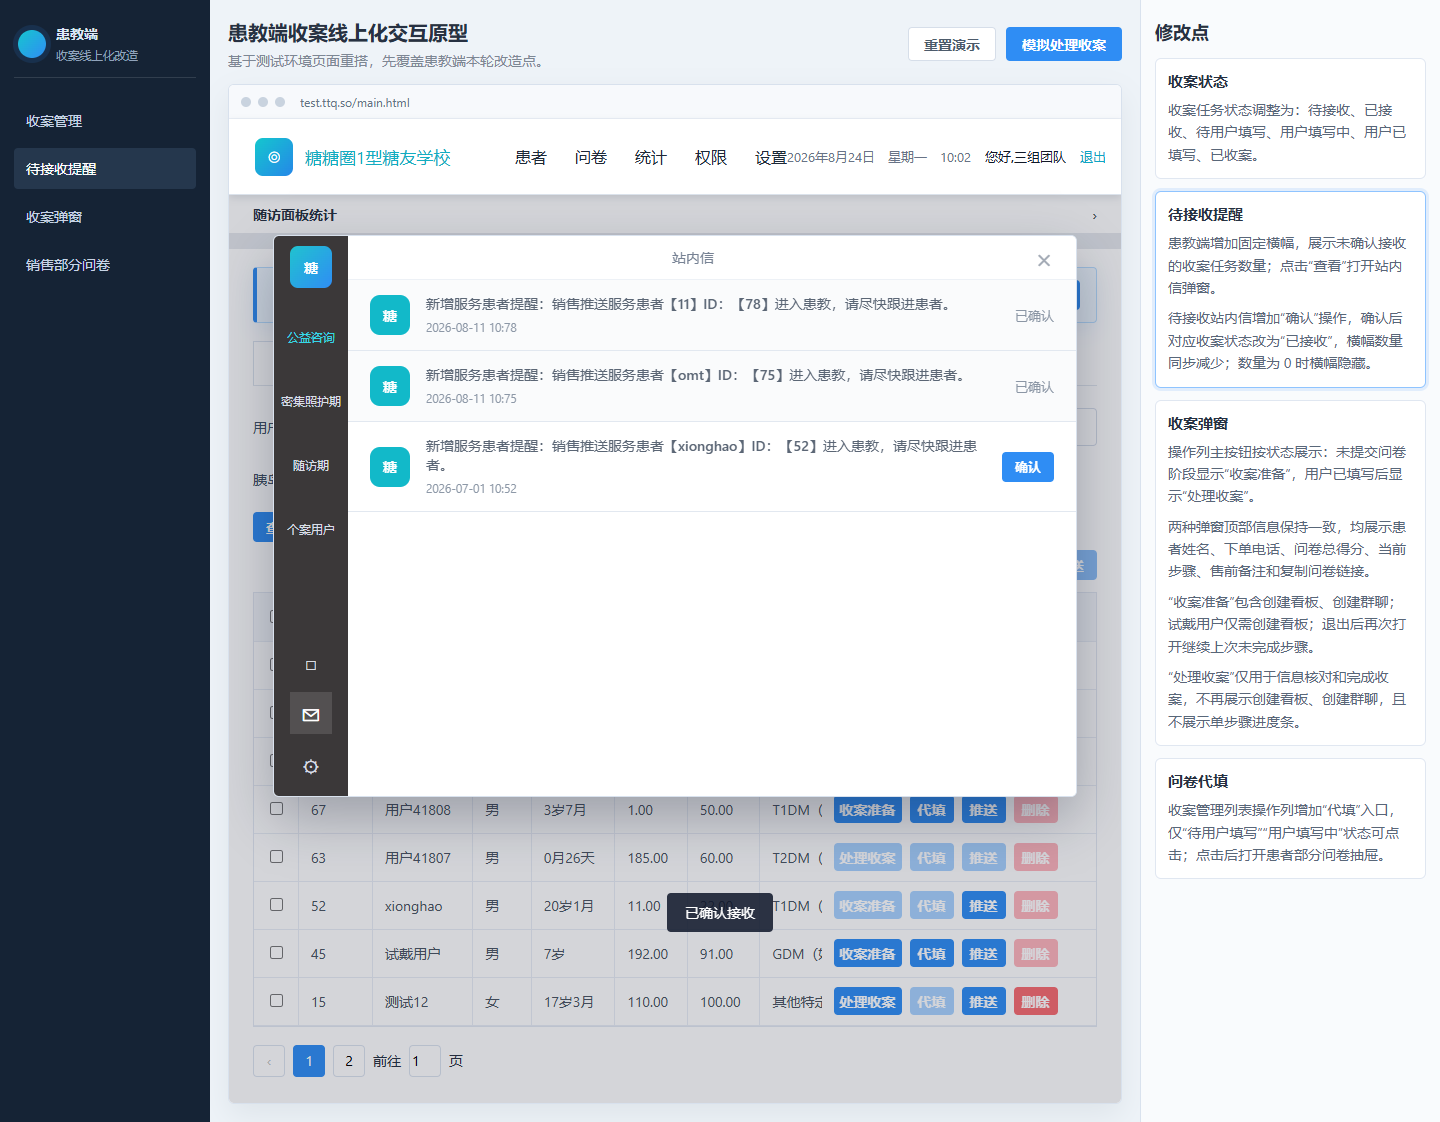
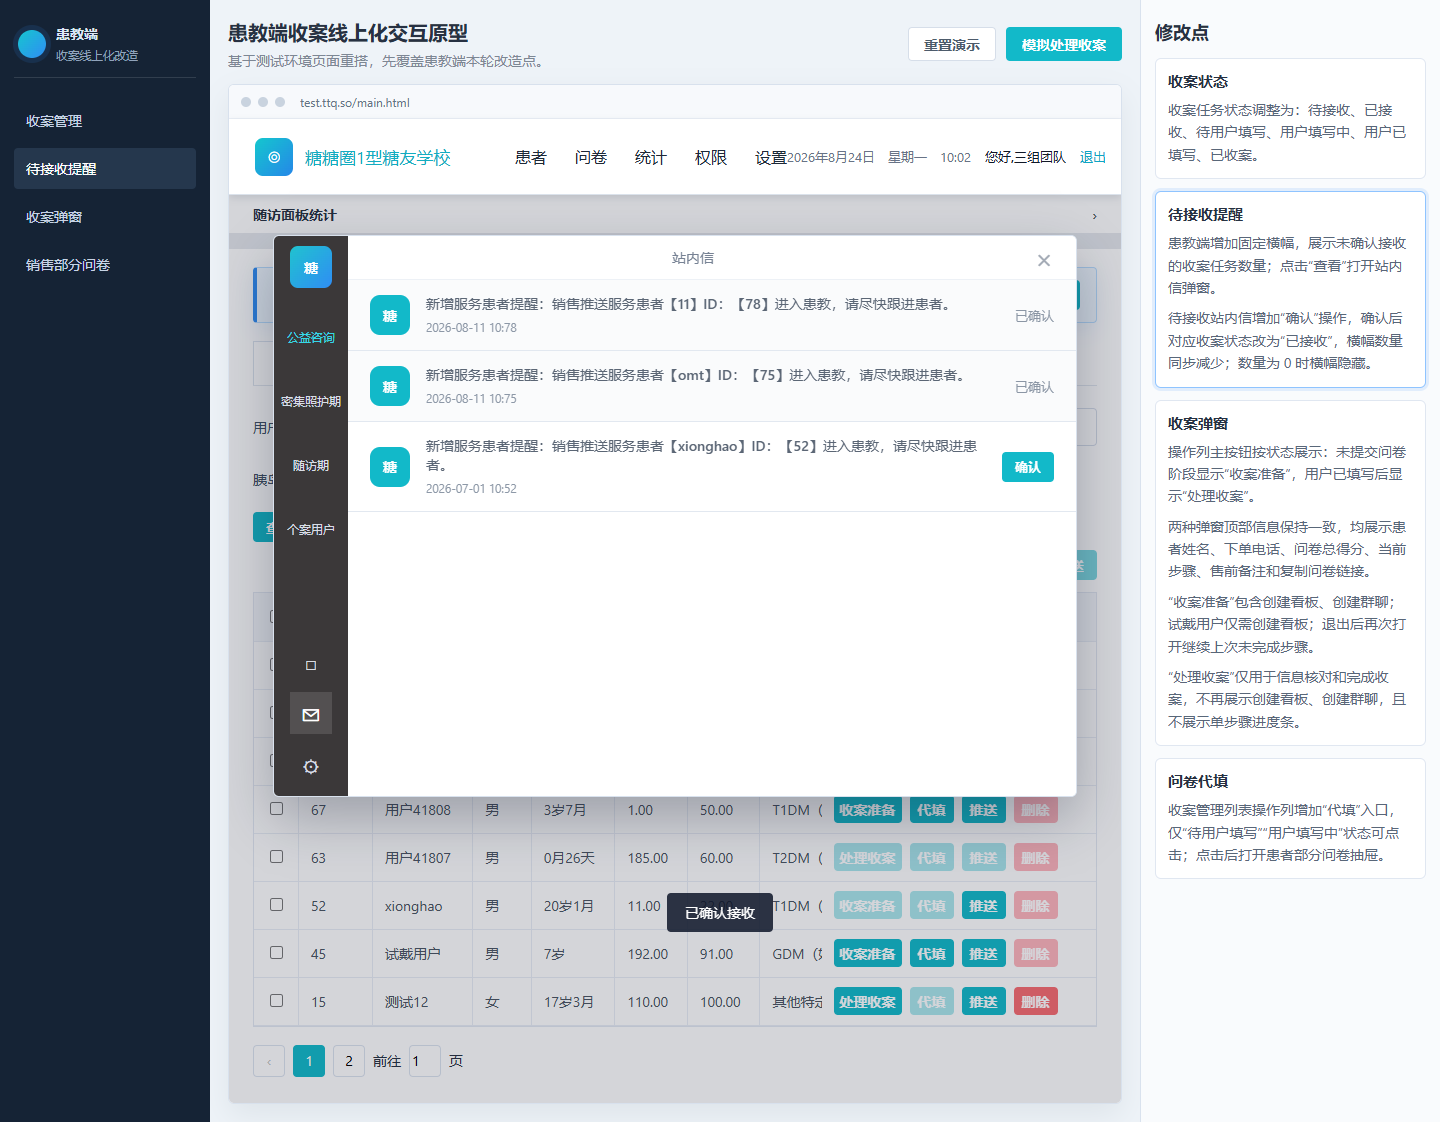
Unify blue button color

diff --git a/styles.css b/styles.css
@@ -130,7 +130,7 @@ button {
   border: 1px solid transparent;
   border-radius: 4px;
   color: #fff;
-  background: var(--blue);
+  background: var(--cyan);
   font-weight: 600;
 }
 
@@ -437,12 +437,12 @@ button {
   border: 0;
   border-radius: 4px;
   color: #fff;
-  background: #2f8df4;
+  background: var(--cyan);
   font-weight: 600;
 }
 
 .row-actions button[disabled] {
-  background: #a8d2ff;
+  background: #a9e6ec;
 }
 
 .row-actions .delete {
@@ -489,8 +489,8 @@ button {
 
 .pager .active {
   color: #fff;
-  border-color: var(--blue);
-  background: var(--blue);
+  border-color: var(--cyan);
+  background: var(--cyan);
 }
 
 .sales-questionnaire-view {
